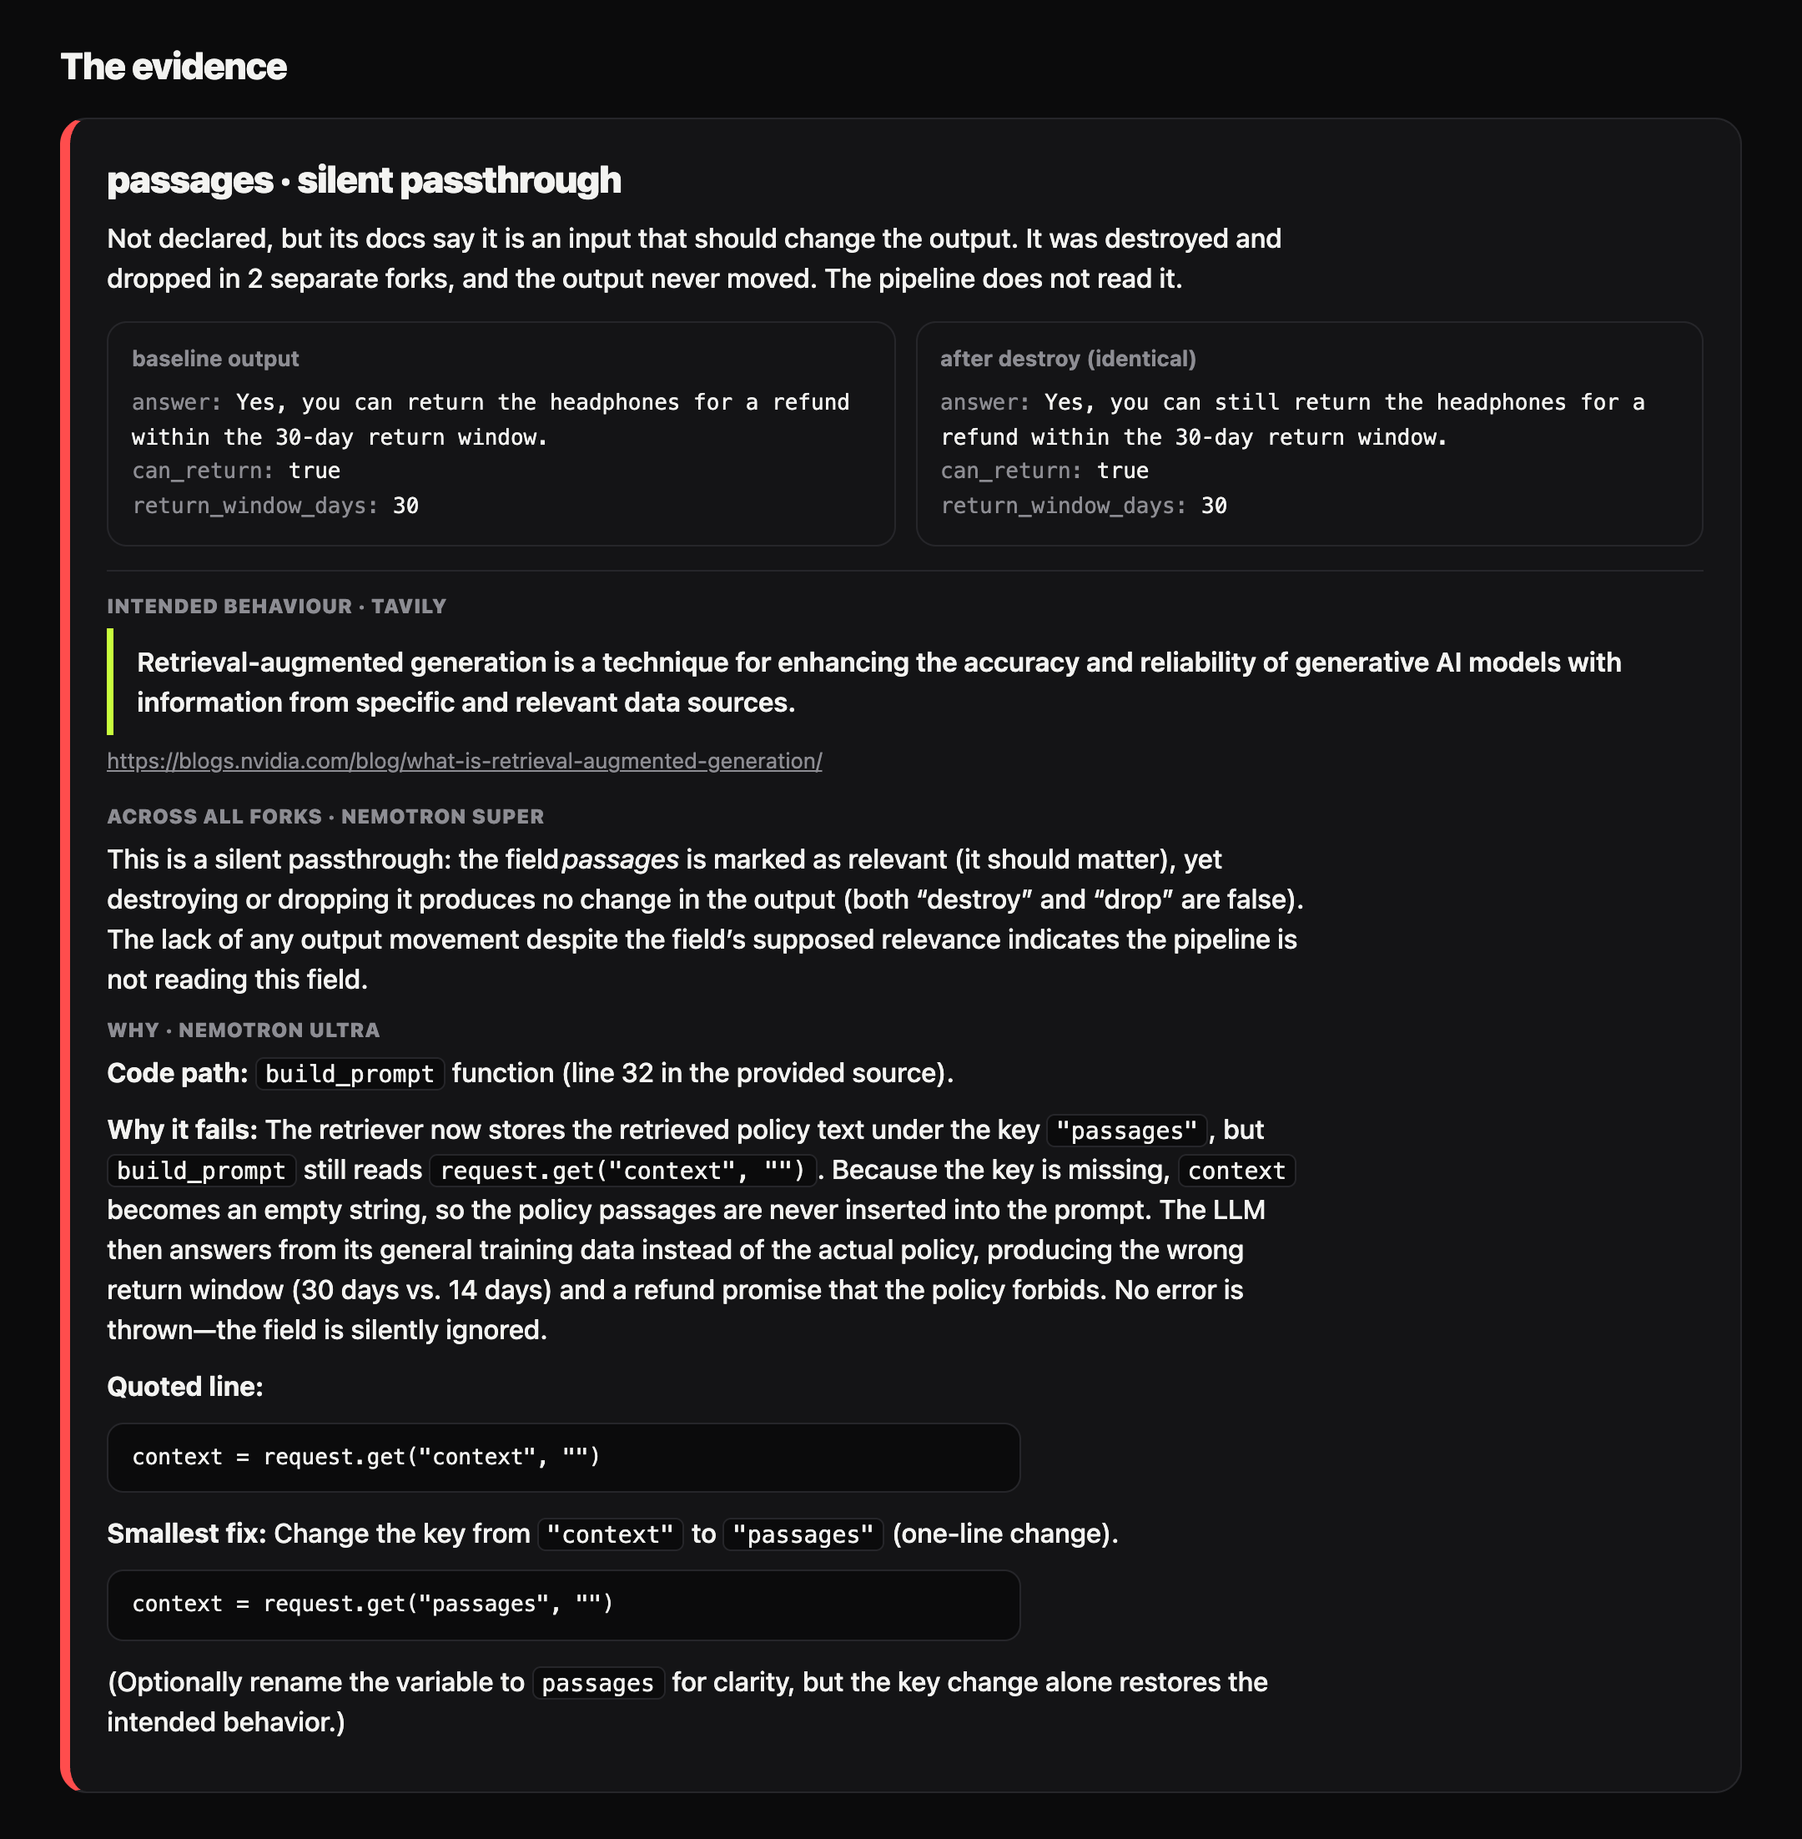
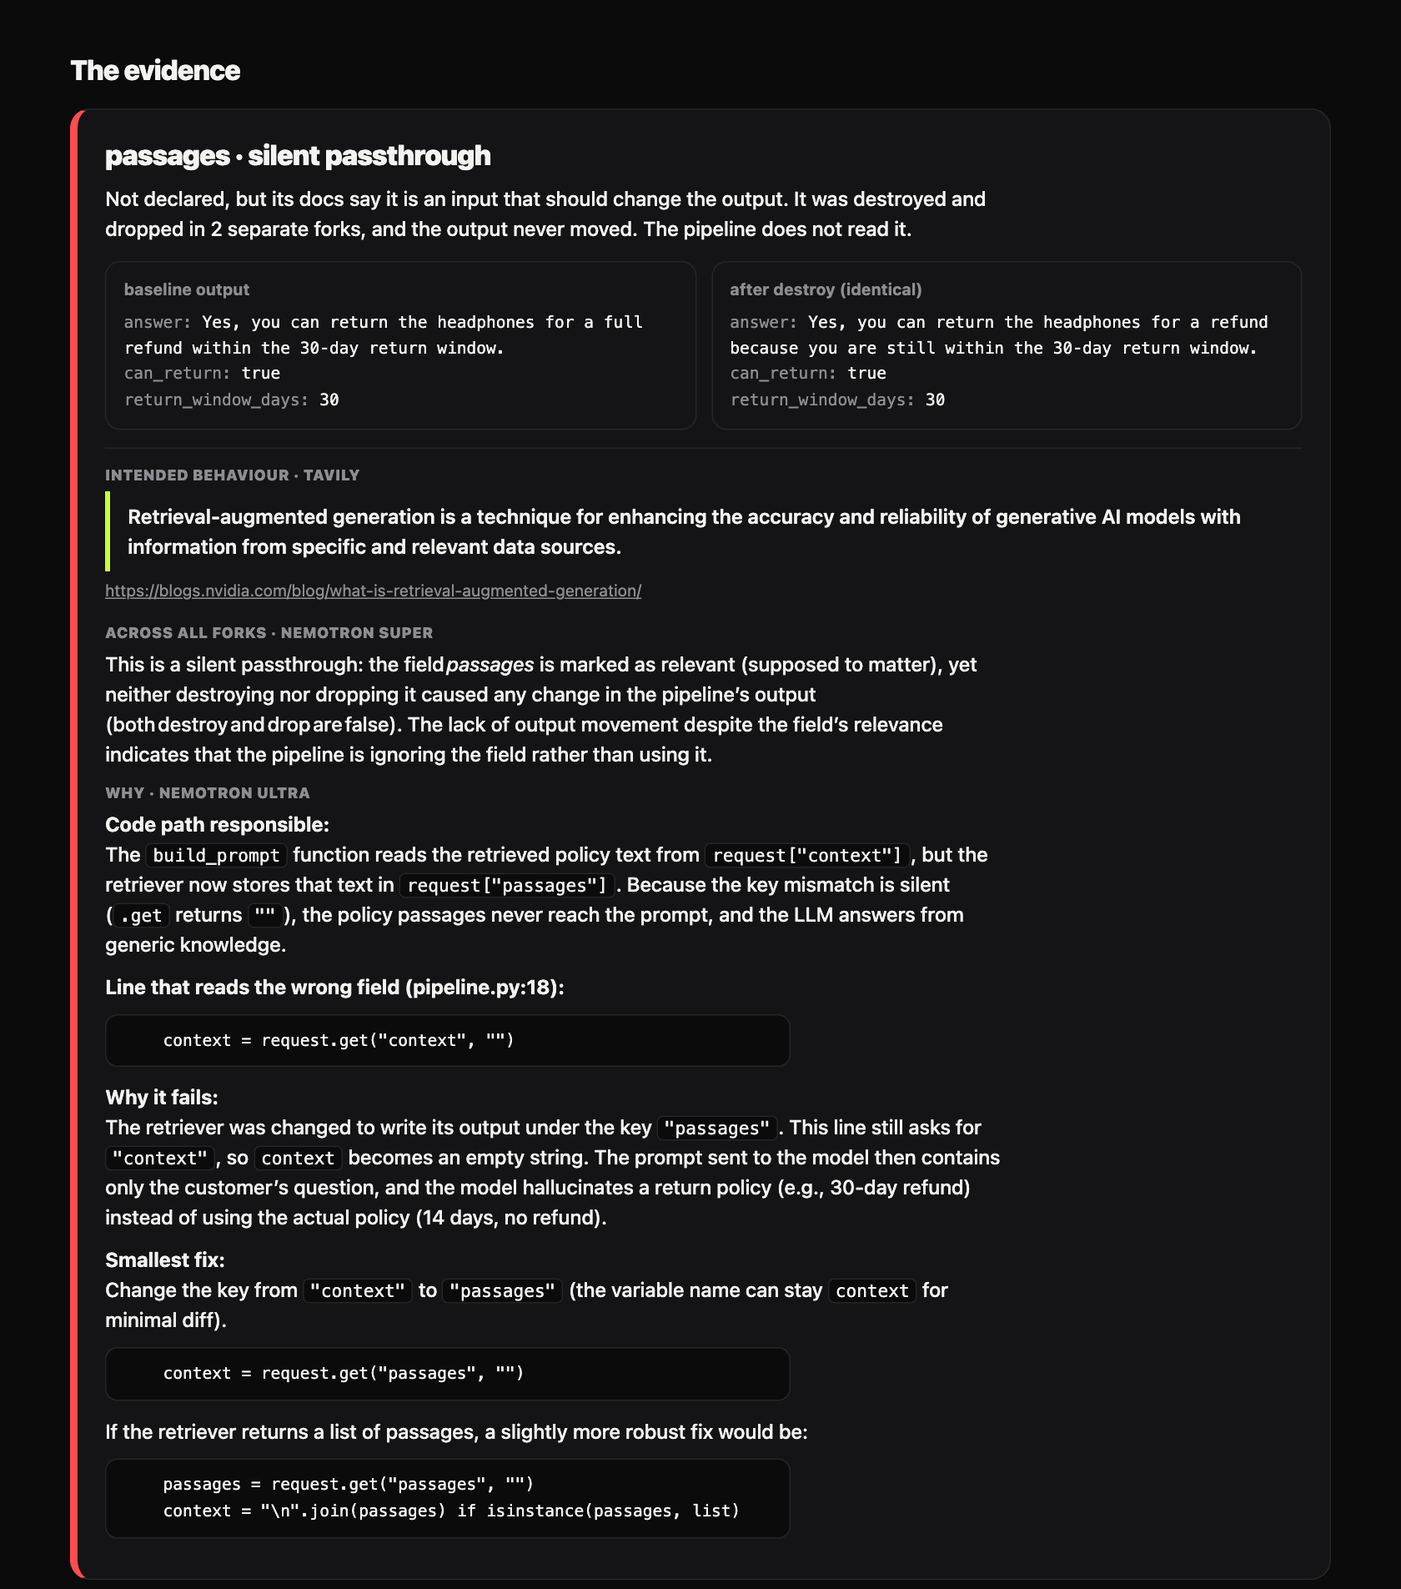
Run on Nebius Sandboxes: the support answerer's whole loop is recorded there, and the README shows it

Changed region(s): [[0.031, 0.031, 0.8976, 0.9911], [0.4333, 0.1858, 0.4643, 0.2478]]

diff --git a/src/loadbearing/site.py b/src/loadbearing/site.py
@@ -89,7 +89,7 @@ def render_index(demo: Any) -> str:
         _two_bugs(),
         _try(demo),
         _benchmark(),
-        _stack(),
+        _stack(hero),
         _use(starter),
         _cta(cases),
         _footer(),
@@ -181,7 +181,9 @@ def _machine(data: dict) -> str:
         '<div class="machine-wrap"><div class="machine" id="machine">'
         '<div class="m-bar"><span class="dots"><i></i><i></i><i></i></span>'
         f'<span class="m-title">loadbearing probe <b>{escape(data.get("target", HERO))}</b></span>'
-        '<span class="m-live"><i></i>Replay of the recorded live run</span></div>'
+        '<span class="m-live"><i></i>Replay of the recorded live run'
+        + (" · Nebius Sandboxes" if data.get("backend") == "sandbox" else "")
+        + "</span></div>"
         '<div class="m-body">'
         '<div class="m-in"><p class="m-h">The input<span>one real customer request</span></p>'
         f'<ul class="rows">{"".join(rows)}</ul></div>'
@@ -214,7 +216,8 @@ def _stats(data: Optional[dict]) -> str:
         secs, runs = timing.get("fork_wall_seconds"), timing.get("runs")
         if secs and runs:
             # The clock covers every run, the re-checks and baselines too, not the copies alone.
-            items.append((f"{secs:.0f}", " s", f"for all {runs} runs on Nemotron, side by side"))
+            where = "Nebius Sandboxes" if data.get("backend") == "sandbox" else "Nemotron"
+            items.append((f"{secs:.0f}", " s", f"for all {runs} runs on {where}, side by side"))
         if r.get("fix"):
             n = len(r["fix"]["add"])
             items.append((str(n), f" line{'s' if n != 1 else ''}", "in the fix Nemotron 3 Ultra wrote, then proved"))
@@ -383,7 +386,9 @@ def _card(demo: Any, name: str, featured: bool = False) -> str:
         status = '<span class="muted">not run yet</span>'
     else:
         status = _status(data, truth)
-        if data.get("backend") != demo.backend:
+        if data.get("backend") == "sandbox":
+            status += '<p class="muted">recorded live on Nebius Sandboxes</p>'
+        elif data.get("backend") != demo.backend:
             status += f'<p class="muted">recorded on {escape(data.get("backend", ""))}</p>'
         elif paid:
             status += '<p class="muted">recorded live on Nebius Token Factory</p>'
@@ -507,11 +512,13 @@ def _benchmark() -> str:
     )
 
 
-def _stack() -> str:
+def _stack(hero: Optional[dict]) -> str:
+    # Say Sandboxes ran only when the run this page replays was recorded there.
+    where = ("the run this page replays was recorded there, live." if hero and hero.get("backend") == "sandbox"
+             else "the backend is built and tested.")
     tf = (
         '<div class="tile big spot"><span class="t-k">Runs everything</span><h3>Nebius Token Factory</h3>'
-        "<p>Serves all three Nemotron models. Its Sandboxes hold the snapshot and the copies: the backend "
-        "is built and tested, and its live run is waiting on beta access.</p>"
+        f"<p>Serves all three Nemotron models. Its Sandboxes hold the snapshot and every copy: {where}</p>"
         '<div class="forkviz" aria-hidden="true"><b>snapshot</b>'
         + "".join(f'<i style="--d:{i}"></i>' for i in range(14))
         + "</div></div>"

diff --git a/tests/test_site.py b/tests/test_site.py
@@ -24,7 +24,7 @@ class FrontPageTests(unittest.TestCase):
         self._tmp.cleanup()
 
     def test_the_hero_quotes_the_recorded_bot_before_and_after_the_fix(self):
-        data = json.loads((RUNS / "support_answerer.local.json").read_text())
+        data = json.loads((RUNS / "support_answerer.sandbox.json").read_text())
         from html import escape
 
         before = data["baseline"]["output"]["answer"]
@@ -33,7 +33,7 @@ class FrontPageTests(unittest.TestCase):
         self.assertIn(escape(after), self.page)
 
     def test_the_hero_replays_every_copy_of_the_recorded_run_and_its_fix(self):
-        data = json.loads((RUNS / "support_answerer.local.json").read_text())
+        data = json.loads((RUNS / "support_answerer.sandbox.json").read_text())
         replay = json.loads(self.page.split('id="replay-data">', 1)[1].split("</script>", 1)[0])
         self.assertEqual([(f["field"], f["kind"], f["moved"]) for f in replay["forks"]],
                          [(f["field"], f["kind"], f["moved"]) for f in data["forks"]])
@@ -42,8 +42,9 @@ class FrontPageTests(unittest.TestCase):
         self.assertEqual(replay["after"]["verdicts"]["passages"], "load-bearing")
 
     def test_the_run_time_names_every_run_it_covers(self):
-        data = json.loads((RUNS / "support_answerer.local.json").read_text())
-        self.assertIn(f'for all {data["timing"]["runs"]} runs on Nemotron', self.page)
+        data = json.loads((RUNS / "support_answerer.sandbox.json").read_text())
+        where = "Nebius Sandboxes" if data["backend"] == "sandbox" else "Nemotron"
+        self.assertIn(f'for all {data["timing"]["runs"]} runs on {where}', self.page)
         self.assertNotIn("Every test passed", self.page)  # the demo target has no tests
 
     def test_the_benchmark_numbers_come_from_results_json(self):
@@ -84,7 +85,10 @@ class FrontPageTests(unittest.TestCase):
 
     def test_the_page_claims_nothing_that_is_not_true_yet(self):
         self.assertNotIn("pip install loadbearing", self.page)  # not on PyPI
-        self.assertIn("waiting on beta access", self.page)  # Sandboxes has not run live
+        # Sandboxes is claimed only because the replayed run was recorded there.
+        self.assertEqual(json.loads((RUNS / "support_answerer.sandbox.json").read_text())["backend"], "sandbox")
+        self.assertIn("recorded there, live", self.page)
+        self.assertIn("recorded live on Nebius Sandboxes", self.page)
         self.assertNotIn("http://", self.page.replace("http://www.w3.org/2000/svg", ""))
 
     def test_the_page_fetches_nothing_from_elsewhere(self):

diff --git a/src/loadbearing/html_report.py b/src/loadbearing/html_report.py
@@ -317,8 +317,11 @@ def _prose(text: str) -> str:
     """A model's prose as HTML: paragraphs, fenced code, `code`, **bold** and *italics*.
 
     Everything is escaped first, so the only tags that can appear are the ones made here."""
+    text = text.strip()
+    if text.count("```") % 2:  # cut off inside a code block, at the model's length limit
+        text += "\n```"
     out = []
-    for i, part in enumerate(_FENCE.split(escape(text.strip()))):
+    for i, part in enumerate(_FENCE.split(escape(text))):
         if i % 2:  # inside a fence
             out.append(f'<pre class="code">{part.strip(chr(10))}</pre>')
             continue

diff --git a/tests/test_html_report.py b/tests/test_html_report.py
@@ -130,6 +130,13 @@ class ProseTests(unittest.TestCase):
         self.assertNotIn("```", html)
         self.assertNotIn("**", html)
 
+    def test_a_fence_cut_off_at_the_length_limit_is_still_code(self):
+        from loadbearing.html_report import _prose
+
+        html = _prose("A fix:\n```python\nx = r.get('passages')\n```\n\nOr:\n```python\nctx = join(x) if")
+        self.assertIn('<pre class="code">ctx = join(x) if</pre>', html)
+        self.assertNotIn("```", html)
+
     def test_markup_in_model_text_stays_escaped(self):
         from loadbearing.html_report import _prose
 

diff --git a/tests/test_serve.py b/tests/test_serve.py
@@ -100,7 +100,7 @@ class DemoServerTests(unittest.TestCase):
         self.assertEqual(status, 200)
         self.assertIn("Backend: sandbox", body)
         index = self.get(base + "/")[1]
-        self.assertIn("recorded on sandbox", index)
+        self.assertIn("recorded live on Nebius Sandboxes", index)
         # A paid target offers its recorded run, never a button that would spend credits.
         row = index.split('data-name="support_answerer"', 1)[1].split("</article>", 1)[0]
         self.assertIn("View the recorded run", row)

diff --git a/README.md b/README.md
@@ -13,7 +13,7 @@
   <img alt="A Loadbearing report on a live RAG support bot: one checkpoint fans out into 14 forks, and the passages field is flagged as a silent passthrough" src="docs/img/report-hero-dark.png">
 </picture>
 
-<sub>The report from a live run: Nemotron 3 on Nebius Token Factory, the forks on the local backend. Every image on this page is Loadbearing's real output from live runs; the terminal is drawn from the captured text of one.</sub>
+<sub>The report from a live run: Nemotron 3 on Nebius Token Factory, the checkpoint and every fork in Nebius Sandboxes. Every image on this page is Loadbearing's real output from live runs; the terminal is drawn from the captured text of one.</sub>
 
 </div>
 
@@ -42,23 +42,23 @@ customer something the policy does not say:
 
 | | Before | After Ultra's fix, proven in a fresh fork |
 |---|---|---|
-| `answer` | "Yes, you can return the headphones for a refund within the 30‑day return window." | "You cannot return the headphones for a refund because the 14‑day return window has passed, but you can file a warranty claim for a repair or replacement." |
+| `answer` | "Yes, you can return the headphones for a full refund within the 30‑day return window." | "Unfortunately, the 14‑day return window has passed, so a refund isn’t possible; however, you can file a warranty claim for a repair or replacement." |
 | `can_return` | `true` | `false` |
 | `return_window_days` | `30` | `14` |
 
 One command finds it, explains it, fixes it and proves the fix:
 
-<p align="center"><img alt="loadbearing probe --intent --prove in a terminal: passages is a silent passthrough" src="docs/img/terminal.png" width="880"></p>
+<p align="center"><img alt="loadbearing probe --backend sandbox --intent --prove in a terminal: passages is a silent passthrough" src="docs/img/terminal.png" width="880"></p>
 
 <details>
 <summary>The full terminal output of that run</summary>
 
 ```
-$ loadbearing probe examples/support_answerer/target.json --intent --prove
-support-answerer: 14 forks from one checkpoint (local)
-checkpoint 0.01s, then 23 runs in 22.89s wall (127.80s one after another, 5.6x parallel)
+$ loadbearing probe examples/support_answerer/target.json --backend sandbox --intent --prove
+support-answerer: 14 forks from one checkpoint (sandbox)
+checkpoint 4.68s, then 21 runs in 39.16s wall (258.71s one after another, 6.6x parallel)
 noise floor: 5 baseline runs; varies on its own, not judged: answer
-confirmed: 2 moved fork(s) re-run, counted only if most runs moved
+confirmed: 1 moved fork(s) re-run, counted only if most runs moved; not counted: drop:user_id (1 of 3)
 
 field        intent      destroy  drop   nudge  verdict
 request_id   irrelevant  same     same   same   inert
@@ -73,32 +73,40 @@ why passages:
   intent: "Retrieval-augmented generation is a technique for enhancing the accuracy and reliability
           of generative AI models with information from specific and relevant data sources."
           (https://blogs.nvidia.com/blog/what-is-retrieval-augmented-generation/)
-  Super:  This is a silent passthrough: the field *passages* is marked as relevant (it should
-          matter), yet destroying or dropping it produces no change in the output (both “destroy”
-          and “drop” are false). The lack of any output movement despite the field’s supposed
-          relevance indicates the pipeline is not reading this field.
-  Ultra:  Code path: `build_prompt` function (line 32 in the provided source).
+  Super:  This is a silent passthrough: the field *passages* is marked as relevant (supposed to
+          matter), yet neither destroying nor dropping it caused any change in the pipeline’s output
+          (both destroy and drop are false). The lack of output movement despite the field’s
+          relevance indicates that the pipeline is ignoring the field rather than using it.
+  Ultra:  Code path responsible:
+          The `build_prompt` function reads the retrieved policy text from `request["context"]`, but
+          the retriever now stores that text in `request["passages"]`. Because the key mismatch is
+          silent (`.get` returns `""`), the policy passages never reach the prompt, and the LLM
+          answers from generic knowledge.
 
-          Why it fails: The retriever now stores the retrieved policy text under the key
-          `"passages"`, but `build_prompt` still reads `request.get("context", "")`. Because the key
-          is missing, `context` becomes an empty string, so the policy passages are never inserted
-          into the prompt. The LLM then answers from its general training data instead of the actual
-          policy, producing the wrong return window (30 days vs. 14 days) and a refund promise that
-          the policy forbids. No error is thrown—the field is silently ignored.
+          Line that reads the wrong field (pipeline.py:18):
+                  context = request.get("context", "")
 
-          Quoted line:
-              context = request.get("context", "")
+          Why it fails:
+          The retriever was changed to write its output under the key `"passages"`. This line still
+          asks for `"context"`, so `context` becomes an empty string. The prompt sent to the model
+          then contains only the customer’s question, and the model hallucinates a return policy
+          (e.g., 30‑day refund) instead of using the actual policy (14 days, no refund).
 
-          Smallest fix: Change the key from `"context"` to `"passages"` (one‑line change).
-              context = request.get("passages", "")
-          (Optionally rename the variable to `passages` for clarity, but the key change alone
-          restores the intended behavior.)
+          Smallest fix:
+          Change the key from `"context"` to `"passages"` (the variable name can stay `context` for
+          minimal diff).
+
+                  context = request.get("passages", "")
+
+          If the retriever returns a list of passages, a slightly more robust fix would be:
+                  passages = request.get("passages", "")
+                  context = "\n".join(passages) if isinstance(passages, list)
 
 fix for passages (silent passthrough):
-  Ultra:  The retriever now stores retrieved policy text under the key 'passages', but build_prompt
-          still reads 'context', causing the policy to be silently omitted from the prompt. Changing
-          the key from 'context' to 'passages' restores the intended retrieval-augmented generation
-          behavior with a one-line fix.
+  Ultra:  The build_prompt function reads from the 'context' key, but the retriever now stores
+          policy passages under the 'passages' key. Changing the key to 'passages' ensures the
+          retrieved policy text is included in the prompt, eliminating the silent passthrough
+          defect.
 --- a/pipeline.py
 +++ b/pipeline.py
 @@ -34,7 +34,7 @@
@@ -112,10 +120,10 @@ proof: passages is now load-bearing, and no other field gained a defect.
 ```
 
 The bot samples its answers, so two runs can differ by chance. The noise floor showed `answer`
-varies on its own, so each fork that moved ran three times and counted only if most of its runs
-moved. In an earlier run this kept one chance answer, on a `received_at` fork (moved 1 of 3),
-from being reported as a phantom sensitivity. Since then only moves on fields that should not
-matter are re-run: those are the ones a chance answer could turn into a false defect.
+varies on its own, so a fork that moved on a field that should not matter ran three times and
+counted only if most of its runs moved. In this run that kept one chance answer, on a `user_id`
+fork (moved 1 of 3), from being reported as a phantom sensitivity. Only those moves are re-run:
+they are the ones a chance answer could turn into a false defect.
 
 </details>
 
@@ -396,7 +404,7 @@ a fake Token Factory server that the LLM demo target talks to over HTTP, unmodif
 
 ## Status
 
-Built and tested offline unless it says live. Nemotron and Tavily have run live on Token Factory; the Sandboxes backend has not yet.
+Built and tested offline unless it says live. Nemotron, Tavily and the Sandboxes backend have all run live on Token Factory.
 
 - [x] Mutation engine: destroy (template-replace), drop, nudge
 - [x] Checkpoint-and-fork engine, timed: checkpoint, parallel wall time, and the same runs one after another
@@ -414,7 +422,7 @@ Built and tested offline unless it says live. Nemotron and Tavily have run live 
 - [x] GitHub Action with a job summary
 - [x] Live: Nemotron Nano, Super and Ultra on Token Factory. Nano scored 19 of 20 labelled diffs on each of three runs; Super and Ultra explain each defect and write the fix
 - [x] Live: Tavily inferring which fields should matter. On the support answerer it finds a RAG source saying answers come from the retrieved passages, which makes the unread `passages` field a defect; Ultra's one-line fix is proven, and the answer goes from "30 days, refund" to "14 days, warranty"
-- [ ] Sandboxes backend run against a live account (checked against the contree-sdk 0.3.6 source, not yet run)
+- [x] Live: the Sandboxes backend. The toy target finds the same two defects on Nebius (checkpoint 4.4 s, then 17 runs in 5.3 s, 7.6x parallel), and the support answerer's whole loop, intent, fix and proof, ran there and is the recorded run
 - [x] Hosted demo at [loadbearing-demo.vercel.app](https://loadbearing-demo.vercel.app): free targets run on request, paid runs are shown as recorded
 - [ ] Demo video
 
